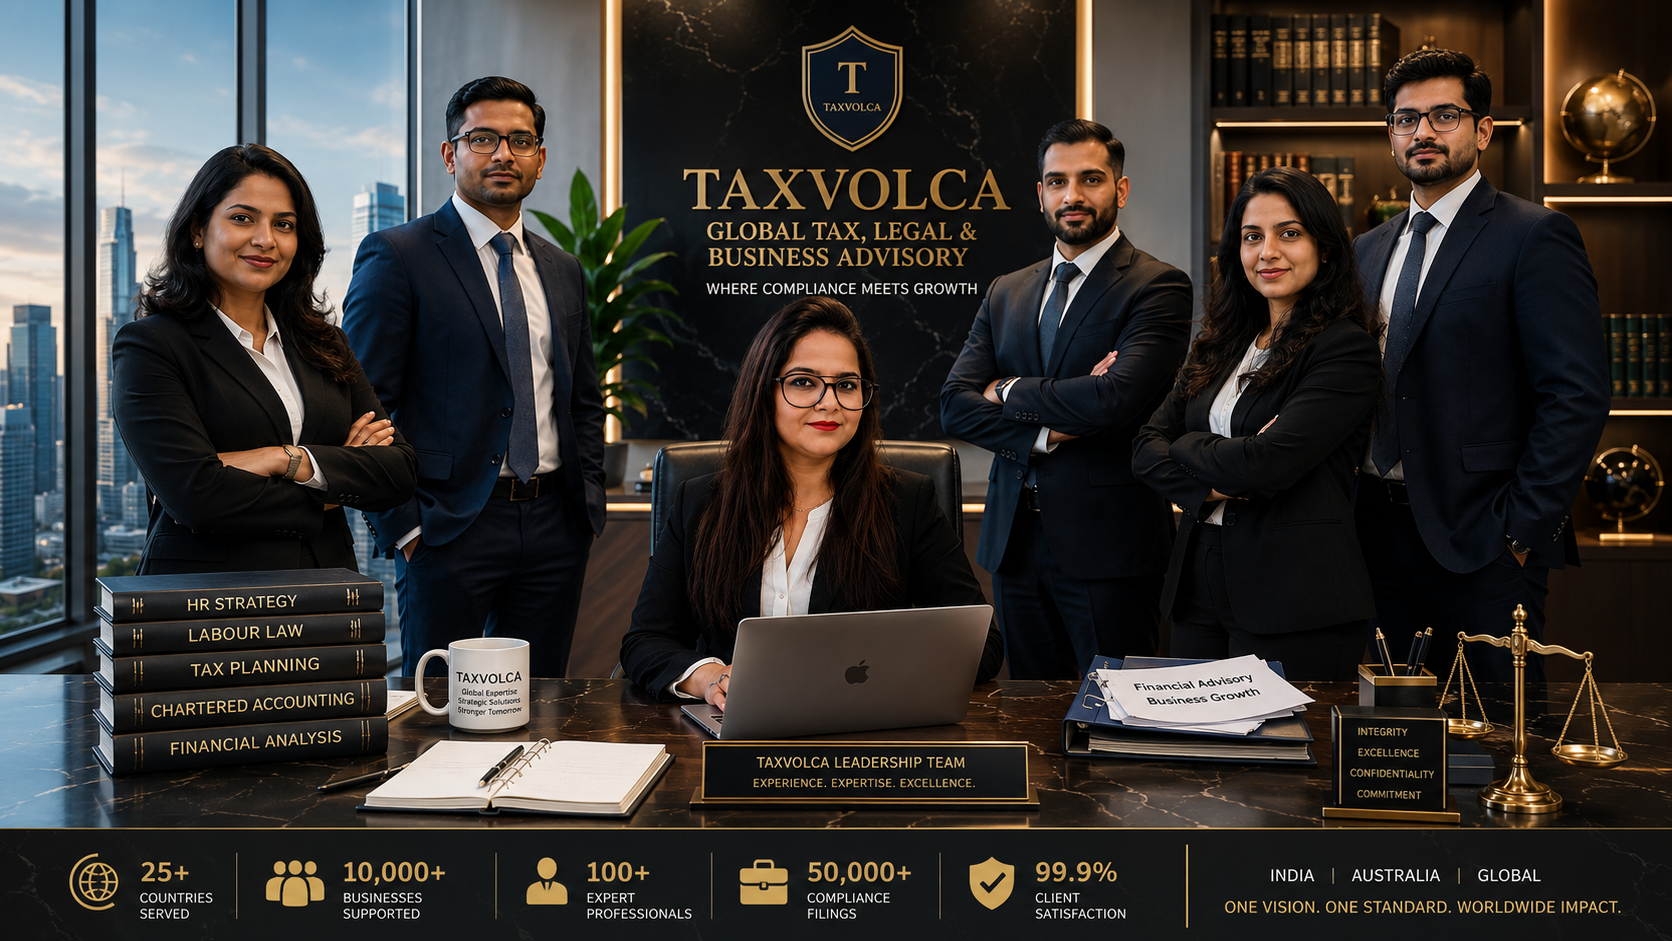
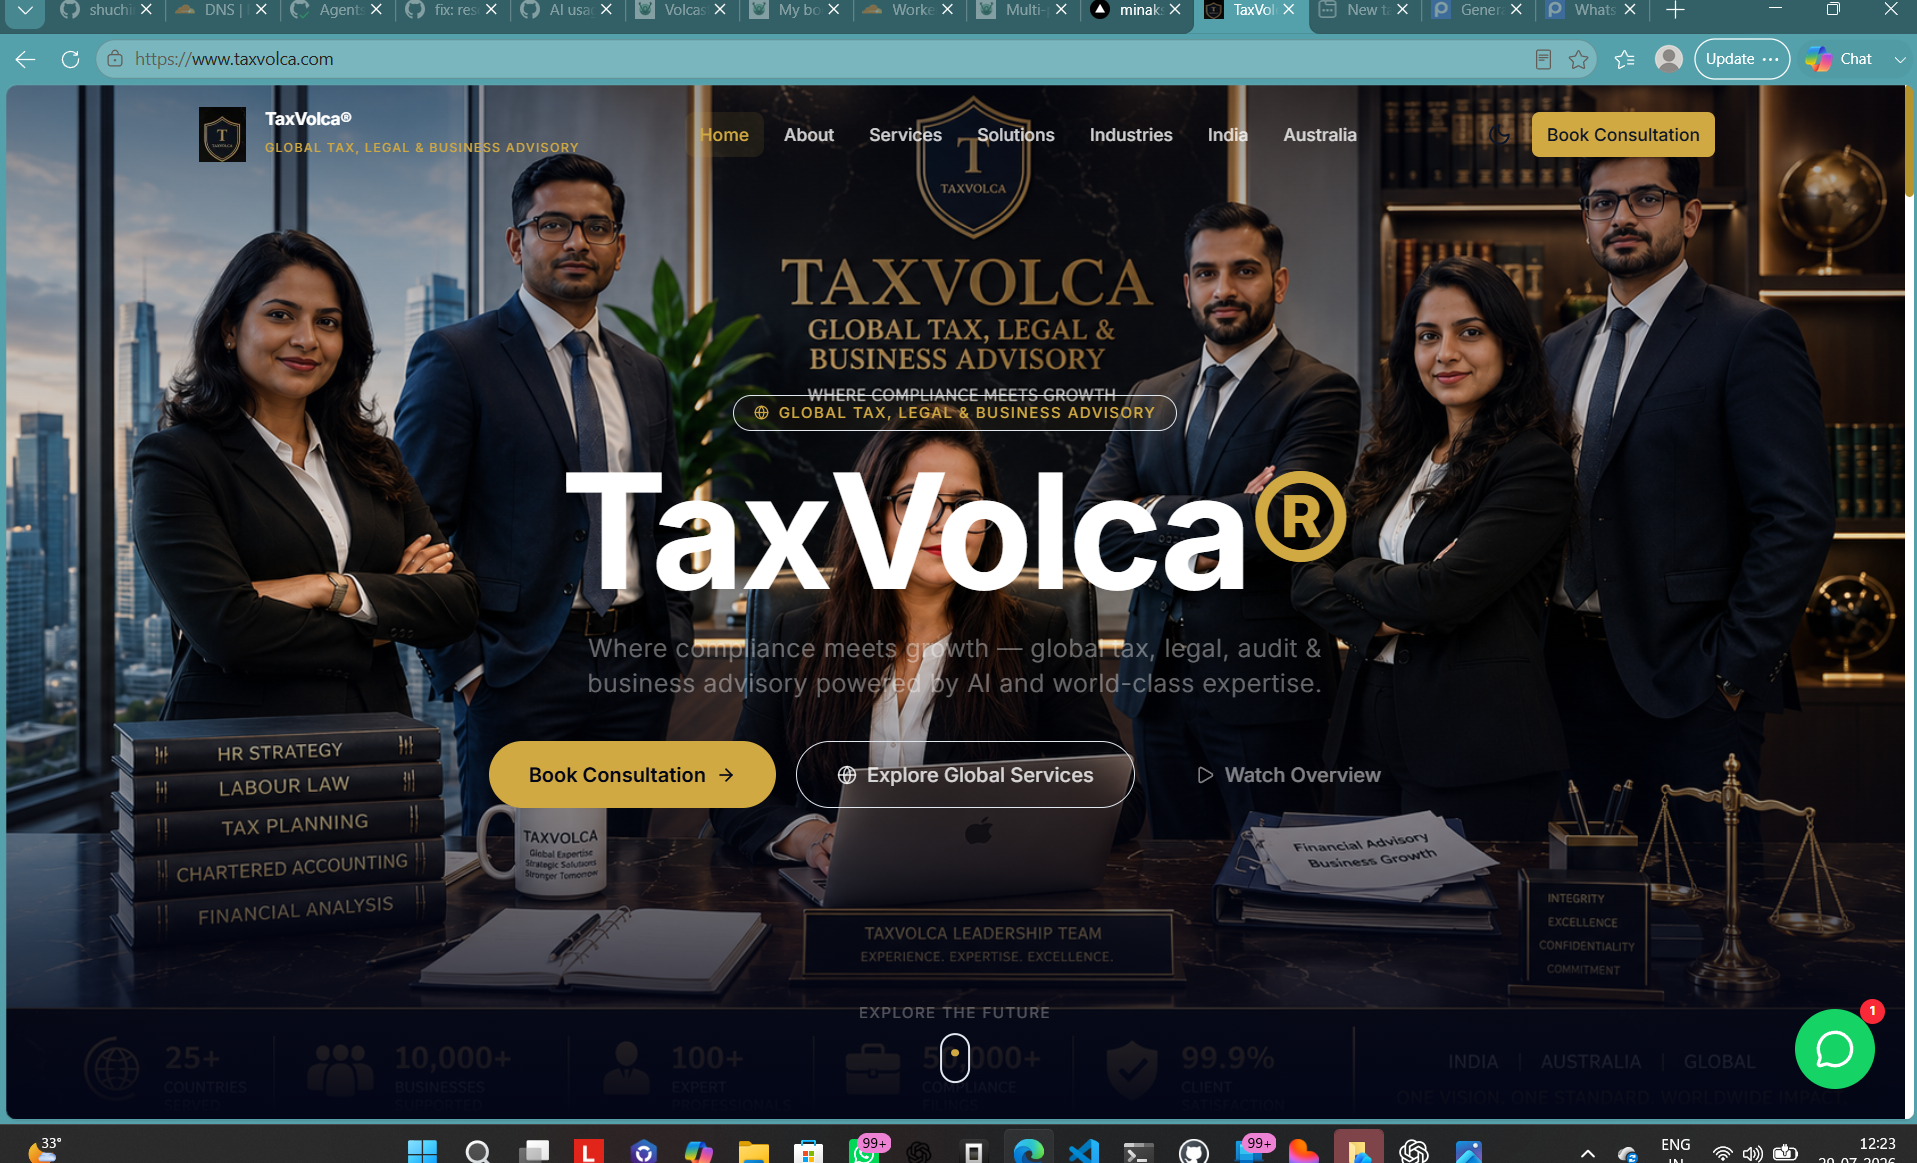
Remove ®, year 2015→2018, remove CA Minakshi references, smaller hero text, new hero bg

diff --git a/src/components/sections/hero-v3.tsx b/src/components/sections/hero-v3.tsx
@@ -17,36 +17,23 @@ export function HeroV3() {
       />
       <div className="absolute inset-0 bg-gradient-to-b from-[#020617]/40 via-transparent to-[#020617] pointer-events-none" />
 
-      <motion.div style={{ opacity, scale }} className="relative z-10 flex flex-col items-center justify-center h-full text-center px-4">
-        <motion.div
-          initial={{ opacity: 0, y: 30 }}
-          animate={{ opacity: 1, y: 0 }}
-          transition={{ duration: 0.8, ease: [0.25, 0.1, 0.25, 1] }}
-          className="mb-4"
-        >
-          <span className="inline-flex items-center gap-2 px-4 py-1.5 rounded-full border border-[#d4a843]/30 bg-[#d4a843]/5 text-[#d4a843] text-xs font-medium tracking-widest uppercase">
-            <Globe className="w-3 h-3" />
-            Global Tax, Legal & Business Advisory
-          </span>
-        </motion.div>
-
+      <motion.div style={{ opacity, scale }} className="relative z-10 flex flex-col items-center justify-center h-full text-center px-4 pt-16">
         <motion.h1
-          initial={{ opacity: 0, y: 30 }}
+          initial={{ opacity: 0, y: 20 }}
           animate={{ opacity: 1, y: 0 }}
-          transition={{ duration: 0.8, delay: 0.2, ease: [0.25, 0.1, 0.25, 1] }}
-          className="text-5xl sm:text-7xl lg:text-8xl xl:text-9xl font-bold tracking-tight mb-4"
+          transition={{ duration: 0.6, ease: [0.25, 0.1, 0.25, 1] }}
+          className="text-3xl sm:text-5xl lg:text-6xl xl:text-7xl font-bold tracking-tight mb-2"
         >
           <span className="text-white">TaxVolca</span>
-          <span className="text-[#d4a843]">®</span>
         </motion.h1>
 
         <motion.p
-          initial={{ opacity: 0, y: 30 }}
+          initial={{ opacity: 0, y: 20 }}
           animate={{ opacity: 1, y: 0 }}
-          transition={{ duration: 0.8, delay: 0.4, ease: [0.25, 0.1, 0.25, 1] }}
-          className="text-white/40 text-lg sm:text-xl max-w-2xl mb-8 font-light tracking-wide"
+          transition={{ duration: 0.6, delay: 0.15, ease: [0.25, 0.1, 0.25, 1] }}
+          className="text-white/40 text-sm sm:text-base max-w-xl mb-6 font-light"
         >
-          Where compliance meets growth — global tax, legal, audit & business advisory powered by AI and world-class expertise.
+          Global Tax, Legal & Business Advisory
         </motion.p>
 
         <motion.div

diff --git a/src/lib/data.ts b/src/lib/data.ts
@@ -1,9 +1,9 @@
 export const brand = {
-  name: "TaxVolca®",
+  name: "TaxVolca",
   tagline: "Global Tax, Legal & Business Advisory",
   promise: "Where Compliance Meets Growth.",
   mission: "To simplify taxation, legal compliance, finance, and corporate governance for businesses globally through technology, AI, and world-class advisory.",
-  year: 2015,
+  year: 2018,
 }
 
 export const whatsapp = "918288855262"
@@ -232,7 +232,7 @@ export const blogPosts = [
 ]
 
 export const teamMembers = [
-  { name: "CA Minakshi Verma", role: "Founder & Group CEO", qualifications: "FCA, CPA Australia", image: "/team/minakshi.jpg", bio: "15+ years of global tax and corporate advisory experience. Visionary behind TaxVolca's AI-powered compliance platform." },
+  { name: "Founder & Leadership", role: "Group CEO", qualifications: "FCA, CPA Australia", image: "/team/default.jpg", bio: "Visionary leadership behind TaxVolca's AI-powered global compliance platform." },
   { name: "Adv. Rajesh Sharma", role: "Head of Legal", qualifications: "LLB, LLM (Corporate Law)", image: "/team/rajesh.jpg", bio: "Corporate law expert specializing in M&A, cross-border transactions, and startup legal ecosystem." },
   { name: "CS Priya Mehta", role: "Director - Compliance", qualifications: "FCS, LLB", image: "/team/priya.jpg", bio: "Governance, ROC compliance, and board advisory specialist with decade of experience." },
   { name: "CA Amit Kapoor", role: "Practice Leader - Tax", qualifications: "CA, DISA (ICAI)", image: "/team/amit.jpg", bio: "International taxation, transfer pricing, and tax litigation expert serving multinational clients." },

diff --git a/src/app/layout.tsx b/src/app/layout.tsx
@@ -10,21 +10,21 @@ const inter = Inter({ subsets: ["latin"], variable: "--font-sans" })
 
 export const metadata: Metadata = {
   title: {
-    default: "TaxVolca® | Global Tax, Legal & Business Advisory",
-    template: "%s | TaxVolca®",
+    default: "TaxVolca | Global Tax, Legal & Business Advisory",
+    template: "%s | TaxVolca",
   },
   description: "AI-powered global tax, legal, audit, and business advisory platform. Serving clients across 25+ countries with enterprise-grade expertise and boutique attention.",
   keywords: ["Tax", "Legal", "Audit", "Business Advisory", "AI Tax", "GST", "Company Registration", "International Tax", "Startup", "NRI", "India", "Australia"],
   openGraph: {
     type: "website",
     locale: "en_IN",
-    siteName: "TaxVolca®",
-    title: "TaxVolca® | Global Tax, Legal & Business Advisory",
+    siteName: "TaxVolca",
+    title: "TaxVolca | Global Tax, Legal & Business Advisory",
     description: "Where Compliance Meets Growth. AI-powered tax, legal, audit & corporate advisory platform.",
   },
   twitter: {
     card: "summary_large_image",
-    title: "TaxVolca®",
+    title: "TaxVolca",
     description: "Global Tax, Legal & Business Advisory",
   },
   robots: { index: true, follow: true, googleBot: { index: true, follow: true, "max-image-preview": "large" } },

diff --git a/src/lib/schemas.ts b/src/lib/schemas.ts
@@ -1,7 +1,7 @@
 export const organizationSchema = {
   "@context": "https://schema.org",
   "@type": "AccountingService",
-  name: "CA Minakshi Verma & Associates",
+  name: "TaxVolca",
   description: "Indian & Australian Chartered Accountants | Legal | Tax | Corporate Advisory",
   url: "https://caminakshiverma.com",
   logo: "https://caminakshiverma.com/logo.png",
@@ -23,7 +23,7 @@ export const organizationSchema = {
 export const localBusinessSchema = {
   "@context": "https://schema.org",
   "@type": "ProfessionalService",
-  name: "CA Minakshi Verma & Associates",
+  name: "TaxVolca",
   description: "Chartered Accountants and Legal Consultancy serving Indian and Australian businesses",
   url: "https://caminakshiverma.com",
   telephone: "+91-XXX-XXX-XXXX",
@@ -68,7 +68,7 @@ export function serviceSchema(service: { name: string; description: string }) {
     description: service.description,
     provider: {
       "@type": "AccountingService",
-      name: "CA Minakshi Verma & Associates",
+      name: "TaxVolca",
     },
   }
 }

diff --git a/src/components/sections/why-taxvolca.tsx b/src/components/sections/why-taxvolca.tsx
@@ -5,7 +5,7 @@ import { motion, useInView, useScroll, useTransform } from "framer-motion"
 import { BookOpen, TrendingUp, Shield, Cpu, Globe, Sparkles } from "lucide-react"
 
 const timeline = [
-  { year: "2015", icon: BookOpen, title: "Traditional CA Firm", desc: "Started with core tax & compliance services in Zirakpur, Punjab." },
+  { year: "2018", icon: BookOpen, title: "Founded", desc: "TaxVolca started with a vision to transform tax & compliance through technology." },
   { year: "2018", icon: TrendingUp, title: "Technology Integration", desc: "Adopted cloud accounting, paperless workflows, and digital compliance tools." },
   { year: "2020", icon: Shield, title: "Automation Era", desc: "Automated tax filings, GST returns, and compliance monitoring systems." },
   { year: "2022", icon: Cpu, title: "Artificial Intelligence", desc: "Launched AI-powered tax assistant, contract review, and compliance checker." },

diff --git a/src/app/blog/[slug]/client.tsx b/src/app/blog/[slug]/client.tsx
@@ -50,7 +50,7 @@ export default function BlogPostClient() {
               with detailed analysis, expert insights, and practical guidance on {post.category.toLowerCase()} topics.
             </p>
             <p className="text-muted-foreground leading-relaxed mb-4">
-              At CA Minakshi Verma & Associates, we regularly publish articles to help businesses and individuals
+              At TaxVolca, we regularly publish articles to help businesses and individuals
               stay informed about the latest developments in taxation, compliance, and business advisory.
             </p>
             <p className="text-muted-foreground leading-relaxed mb-8">

diff --git a/src/components/whatsapp-button.tsx b/src/components/whatsapp-button.tsx
@@ -7,7 +7,7 @@ import Link from "next/link"
 export function WhatsAppButton() {
   return (
     <Link
-      href={`https://wa.me/${whatsapp}?text=Hi%20CA%20Minakshi%20Verma%20%26%20Associates%2C%20I%20need%20a%20consultation`}
+       href={`https://wa.me/${whatsapp}?text=Hi%20TaxVolca%2C%20I%20need%20a%20consultation`}
       target="_blank"
       rel="noopener noreferrer"
       className="fixed bottom-6 right-6 z-50 w-16 h-16 rounded-full bg-[#25D366] text-white flex items-center justify-center shadow-2xl hover:bg-[#20bd5a] hover:scale-110 transition-all duration-300 animate-pulse-gold group"

diff --git a/src/components/sections/about-section.tsx b/src/components/sections/about-section.tsx
@@ -26,7 +26,7 @@ export function AboutSection() {
             Your Trusted <span className="gold-gradient">Financial & Legal</span> Partner
           </h2>
           <p className="text-white/70 text-lg leading-relaxed mb-6">
-            Led by <strong className="text-white">CA Minakshi Verma</strong>, a Fellow Chartered Accountant
+            Led by a team of Fellow Chartered Accountants
             and CPA Australia member with 15+ years of experience, our firm combines global expertise
             with local knowledge to serve clients across India and Australia.
           </p>

diff --git a/src/app/appointment/page.tsx b/src/app/appointment/page.tsx
@@ -3,7 +3,7 @@ import AppointmentPageClient from "./client"
 
 export const metadata: Metadata = {
   title: "Book Appointment",
-  description: "Schedule a consultation with CA Minakshi Verma & Associates. Choose from video meeting, office visit, phone, or WhatsApp consultation.",
+  description: "Schedule a consultation with TaxVolca. Choose from video meeting, office visit, phone, or WhatsApp consultation.",
 }
 
 export default function AppointmentPage() {

diff --git a/src/app/admin/page.tsx b/src/app/admin/page.tsx
@@ -3,7 +3,7 @@ import AdminPageClient from "./client"
 
 export const metadata: Metadata = {
   title: "Admin Dashboard",
-  description: "Administrative dashboard for CA Minakshi Verma & Associates - manage appointments, clients, documents, and more.",
+  description: "Administrative dashboard for TaxVolca - manage appointments, clients, documents, and more.",
   robots: { index: false, follow: false },
 }
 

diff --git a/src/app/blog/[slug]/page.tsx b/src/app/blog/[slug]/page.tsx
@@ -19,7 +19,7 @@ export async function generateMetadata({ params }: { params: Promise<{ slug: str
   const { slug } = await params
   return {
     title: `Blog - ${slug.replace(/-/g, " ").replace(/\b\w/g, (l) => l.toUpperCase())}`,
-    description: "Expert insights and advice from CA Minakshi Verma & Associates.",
+    description: "Expert insights and advice from TaxVolca.",
   }
 }
 
